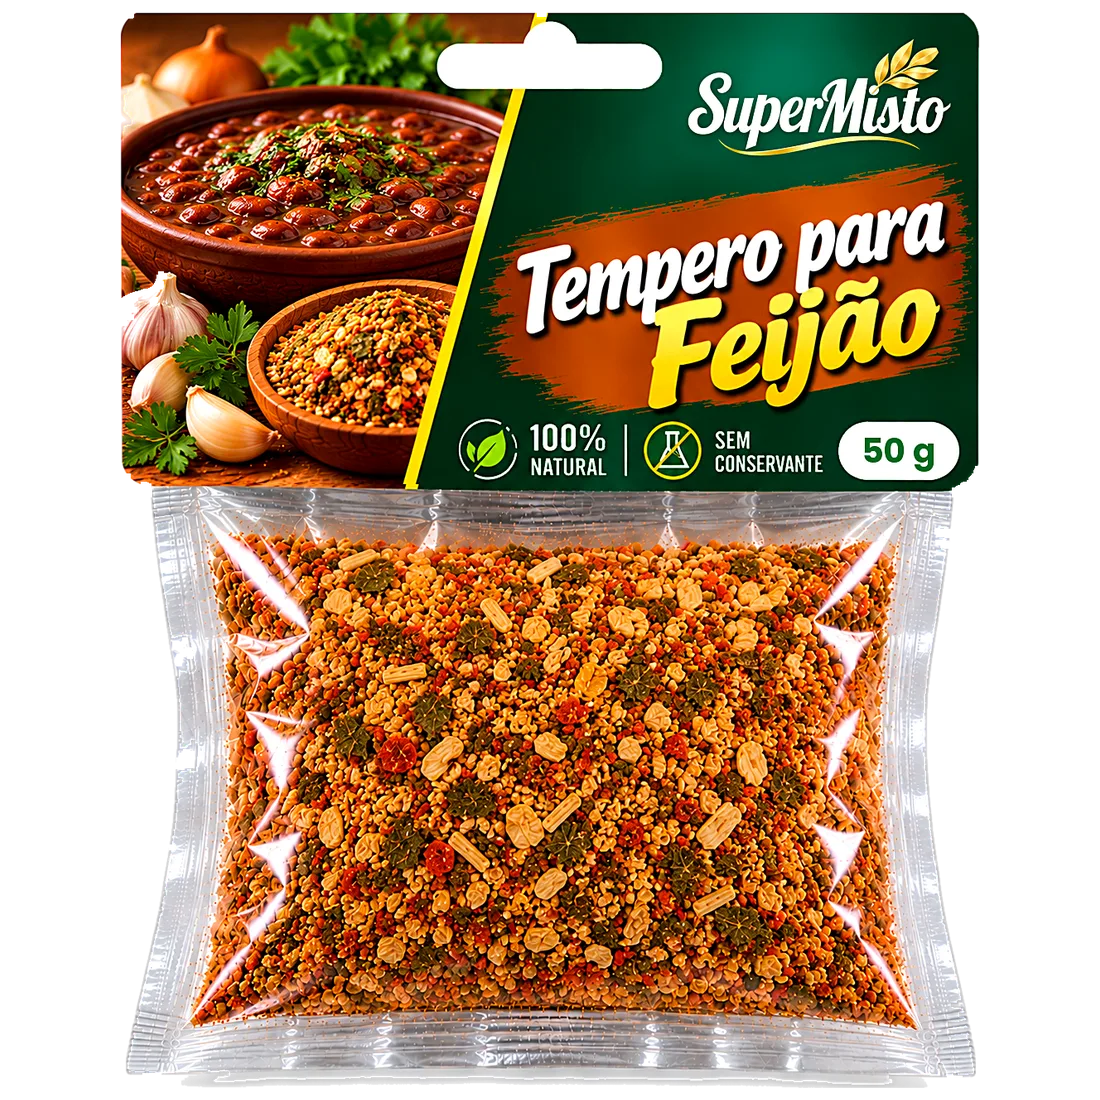
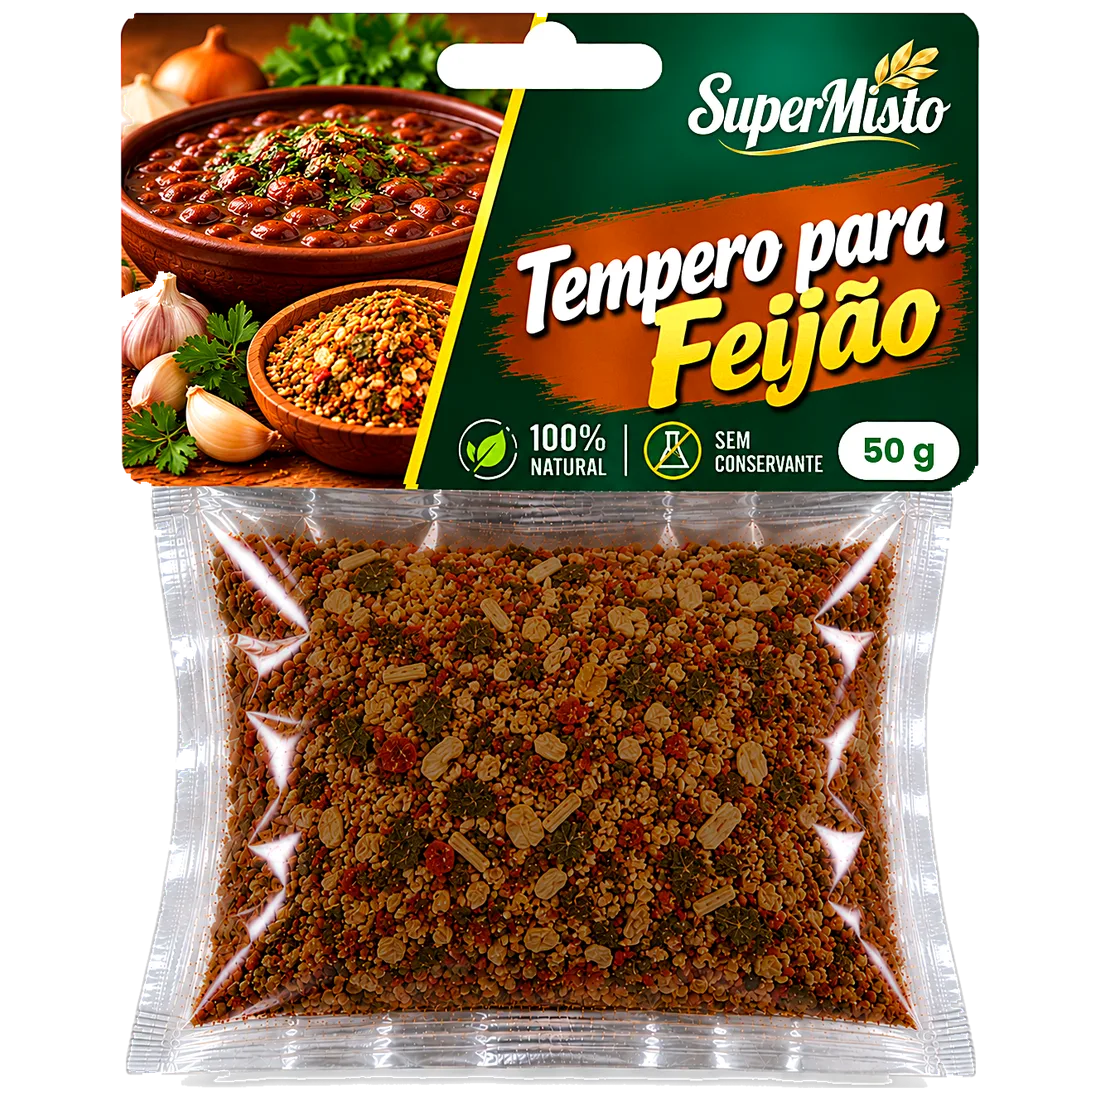
Supermisto: cor própria do tempero em cada saquinho (frango, feijão, arroz)
Claude-Session: https://claude.ai/code/session_01UfbvQyVUMZpEq6zNbbPKYT

Changed region(s): [[0.1545, 0.4636, 0.8345, 0.9582]]

diff --git a/SITE-SUPERMISTO/site.js b/SITE-SUPERMISTO/site.js
@@ -31,7 +31,7 @@ const slug = (n) => n.toLowerCase().normalize('NFD').replace(/[\u0300-\u036f]/g,
 const PESO_FOTO = { '50 g': '-50g', '100 g': '-100g', '1 kg': '-1kg' };
 function midia(p, peso) {
   const s = slug(p.nome);
-  return FOTOS.has(s) ? `<img class="foto-prod" src="img/produtos/${s}${PESO_FOTO[peso] || ''}.webp?v=36" alt="${escapar(p.nome)} Supermisto ${peso || ''}" loading="lazy">` : embalagem(p, peso);
+  return FOTOS.has(s) ? `<img class="foto-prod" src="img/produtos/${s}${PESO_FOTO[peso] || ''}.webp?v=37" alt="${escapar(p.nome)} Supermisto ${peso || ''}" loading="lazy">` : embalagem(p, peso);
 }
 
 const $ = (s, el = document) => el.querySelector(s);
@@ -43,7 +43,7 @@ const WHATS_SVG = '<svg viewBox="0 0 32 32" width="30" height="30" fill="#fff" a
 /* ---------- cartões de produto ---------- */
 function cartao(p) {
   if (!FOTOS.has(slug(p.nome))) return `<article class="prod prod-embreve aparece" aria-label="${escapar(p.nome)}: em breve">
-    <div class="prod-img"><img class="breve-logo" src="img/logo-supermisto.png?v=36" alt="" loading="lazy"><span class="breve-selo">Em breve</span></div>
+    <div class="prod-img"><img class="breve-logo" src="img/logo-supermisto.png?v=37" alt="" loading="lazy"><span class="breve-selo">Em breve</span></div>
     <div class="prod-corpo">
       <small class="prod-linha">${linhaDe(p.linha).nome}</small>
       <h3>${escapar(p.nome)}</h3>
@@ -132,11 +132,11 @@ function inicio() {
   const pegar = (nome) => PRODUTOS.find((p) => p.nome === nome);
   // produtos com foto real entram como recorte (sem fundo); os outros com a embalagem desenhada
   const vit = (n) => FOTOS.has(slug(n)) ? `<img src="img/produtos/${slug(n)}-recorte.png" alt="${n} Supermisto">` : embalagem(pegar(n), pegar(n).tam[1] || pegar(n).tam[0]);
-  $('#vitrine').innerHTML = '<img class="vit-kit" src="img/kit-10-temperos.webp?v=36" alt="Kit 10 temperos Supermisto" width="900" height="900">';
+  $('#vitrine').innerHTML = '<img class="vit-kit" src="img/kit-10-temperos.webp?v=37" alt="Kit 10 temperos Supermisto" width="900" height="900">';
   $('#num-prod').textContent = PRODUTOS.length + '+';
   $('#linhas-grid').innerHTML = LINHAS.map((l) => {
     const qtd = PRODUTOS.filter((p) => p.linha === l.id).length;
-    const fundo = FOTOS_LINHA.includes(l.id) ? `background-image:url(img/linhas/${l.id}.webp?v=36)` : `background:radial-gradient(circle at 50% 40%,#7B1F95,#2C0739)`;
+    const fundo = FOTOS_LINHA.includes(l.id) ? `background-image:url(img/linhas/${l.id}.webp?v=37)` : `background:radial-gradient(circle at 50% 40%,#7B1F95,#2C0739)`;
     return `<a class="linha aparece" href="linha.html?id=${l.id}"><span class="linha-foto" style="${fundo}">${FOTOS_LINHA.includes(l.id) ? '' : `<i>${l.emoji}</i>`}</span><b>${l.nome}</b><em>${qtd} produtos</em></a>`;
   }).join('');
   // só produtos com foto real (os outros entram quando a foto chegar)
@@ -184,8 +184,8 @@ function paginaLinha() {
   const titulo = `<span class="sobre-tit amarelo">Nossas linhas</span><h1>${l.nome}</h1><p>${l.desc}</p>
     <span class="ln-conta">${lista.length} produtos${prontos < lista.length ? ` · ${lista.length - prontos} em breve` : ''}</span>`;
   $('#linha').innerHTML = CAPAS_LINHA.includes(l.id)
-    ? `<div class="ln-capa-larga"><img src="img/linhas/${l.id}-capa.webp?v=36" alt="${l.nome} Supermisto" width="1920" height="720"></div><div class="ln-topo ln-topo-so"><div class="caixa">${titulo}</div></div>`
-    : `<div class="ln-topo"><div class="caixa ln-topo-in"><div>${titulo}</div>${FOTOS_LINHA.includes(l.id) ? `<img class="ln-foto" src="img/linhas/${l.id}.webp?v=36" alt="${l.nome} Supermisto" width="800" height="600">` : `<div class="ln-foto ln-foto-vazia"><i>${l.emoji}</i></div>`}</div></div>`;
+    ? `<div class="ln-capa-larga"><img src="img/linhas/${l.id}-capa.webp?v=37" alt="${l.nome} Supermisto" width="1920" height="720"></div><div class="ln-topo ln-topo-so"><div class="caixa">${titulo}</div></div>`
+    : `<div class="ln-topo"><div class="caixa ln-topo-in"><div>${titulo}</div>${FOTOS_LINHA.includes(l.id) ? `<img class="ln-foto" src="img/linhas/${l.id}.webp?v=37" alt="${l.nome} Supermisto" width="800" height="600">` : `<div class="ln-foto ln-foto-vazia"><i>${l.emoji}</i></div>`}</div></div>`;
   $('#linhas-nav').innerHTML = LINHAS.map((x) => `<a href="linha.html?id=${x.id}"${x.id === l.id ? ' class="ativo" aria-current="page"' : ''}>${x.nome}</a>`).join('');
   $('#linha-prods').innerHTML = lista.map(([p, i]) => cartao(p, i)).join('');
 }

diff --git a/SITE-SUPERMISTO/404.html b/SITE-SUPERMISTO/404.html
@@ -12,14 +12,14 @@
 <link rel="icon" href="img/icone-192.png">
 <link rel="preconnect" href="https://fonts.googleapis.com">
 <link href="https://fonts.googleapis.com/css2?family=Inter:wght@400;500;600;700&family=Poppins:ital,wght@0,600;0,700;0,800;1,800&display=swap" rel="stylesheet">
-<link rel="stylesheet" href="estilo.css?v=36">
+<link rel="stylesheet" href="estilo.css?v=37">
 <script type="application/ld+json">{"@context":"https://schema.org","@type":"Organization","name":"Supermisto Temperos","legalName":"SUPER MISTO TEMPEROS LTDA","taxID":"13.580.397/0001-80","url":"https://www.supermistotemperos.com.br/","logo":"https://www.supermistotemperos.com.br/img/logo-supermisto.png","email":"contato@supermistotemperos.com.br","telephone":"+55-24-99872-1557","address":{"@type":"PostalAddress","streetAddress":"Estrada de Xerém, 484","addressLocality":"Duque de Caxias","addressRegion":"RJ","postalCode":"25241-390","addressCountry":"BR"}}</script>
 </head>
 <body>
 
 <header class="topo" id="topo">
   <div class="caixa topo-in">
-    <a href="index.html" class="marca" aria-label="Supermisto Temperos, início"><img src="img/logo-supermisto.png?v=36" alt="Supermisto Temperos" width="1029" height="507"></a>
+    <a href="index.html" class="marca" aria-label="Supermisto Temperos, início"><img src="img/logo-supermisto.png?v=37" alt="Supermisto Temperos" width="1029" height="507"></a>
     <nav class="menu" id="menu">
       <a href="catalogo.html">Produtos</a>
       <a href="receitas.html">Receitas</a>
@@ -34,7 +34,7 @@
 
 <main>
 <a class="banner-topo" href="catalogo.html" aria-label="Ver os temperos Supermisto">
-  <img src="img/banner-larga.webp?v=36" srcset="img/banner-larga-960.webp?v=36 960w, img/banner-larga-1280.webp?v=36 1280w, img/banner-larga.webp?v=36 1920w" sizes="100vw" width="1920" height="720" alt="Supermisto: sabor e qualidade em cada receita. Molhos de pimenta, shoyu e alho, temperos e doces Supermisto." fetchpriority="high">
+  <img src="img/banner-larga.webp?v=37" srcset="img/banner-larga-960.webp?v=37 960w, img/banner-larga-1280.webp?v=37 1280w, img/banner-larga.webp?v=37 1920w" sizes="100vw" width="1920" height="720" alt="Supermisto: sabor e qualidade em cada receita. Molhos de pimenta, shoyu e alho, temperos e doces Supermisto." fetchpriority="high">
 </a>
 <section class="hero" id="inicio">
   
@@ -158,8 +158,8 @@
 <footer class="rodape" id="rodape"></footer>
 <a class="whats-flutua" data-whats="Olá! Vim pelo site da Supermisto." aria-label="WhatsApp"></a>
 
-<script src="produtos.js?v=36"></script>
-<script src="receitas.js?v=36"></script>
-<script src="site.js?v=36"></script>
+<script src="produtos.js?v=37"></script>
+<script src="receitas.js?v=37"></script>
+<script src="site.js?v=37"></script>
 </body>
 </html>

diff --git a/SITE-SUPERMISTO/index.html b/SITE-SUPERMISTO/index.html
@@ -12,14 +12,14 @@
 <link rel="icon" href="img/icone-192.png">
 <link rel="preconnect" href="https://fonts.googleapis.com">
 <link href="https://fonts.googleapis.com/css2?family=Inter:wght@400;500;600;700&family=Poppins:ital,wght@0,600;0,700;0,800;1,800&display=swap" rel="stylesheet">
-<link rel="stylesheet" href="estilo.css?v=36">
+<link rel="stylesheet" href="estilo.css?v=37">
 <script type="application/ld+json">{"@context":"https://schema.org","@type":"Organization","name":"Supermisto Temperos","legalName":"SUPER MISTO TEMPEROS LTDA","taxID":"13.580.397/0001-80","url":"https://www.supermistotemperos.com.br/","logo":"https://www.supermistotemperos.com.br/img/logo-supermisto.png","email":"contato@supermistotemperos.com.br","telephone":"+55-24-99872-1557","address":{"@type":"PostalAddress","streetAddress":"Estrada de Xerém, 484","addressLocality":"Duque de Caxias","addressRegion":"RJ","postalCode":"25241-390","addressCountry":"BR"}}</script>
 </head>
 <body>
 
 <header class="topo" id="topo">
   <div class="caixa topo-in">
-    <a href="index.html" class="marca" aria-label="Supermisto Temperos, início"><img src="img/logo-supermisto.png?v=36" alt="Supermisto Temperos" width="1029" height="507"></a>
+    <a href="index.html" class="marca" aria-label="Supermisto Temperos, início"><img src="img/logo-supermisto.png?v=37" alt="Supermisto Temperos" width="1029" height="507"></a>
     <nav class="menu" id="menu">
       <a href="catalogo.html">Produtos</a>
       <a href="receitas.html">Receitas</a>
@@ -34,7 +34,7 @@
 
 <main>
 <a class="banner-topo" href="catalogo.html" aria-label="Ver os temperos Supermisto">
-  <img src="img/banner-larga.webp?v=36" srcset="img/banner-larga-960.webp?v=36 960w, img/banner-larga-1280.webp?v=36 1280w, img/banner-larga.webp?v=36 1920w" sizes="100vw" width="1920" height="720" alt="Supermisto: sabor e qualidade em cada receita. Molhos de pimenta, shoyu e alho, temperos e doces Supermisto." fetchpriority="high">
+  <img src="img/banner-larga.webp?v=37" srcset="img/banner-larga-960.webp?v=37 960w, img/banner-larga-1280.webp?v=37 1280w, img/banner-larga.webp?v=37 1920w" sizes="100vw" width="1920" height="720" alt="Supermisto: sabor e qualidade em cada receita. Molhos de pimenta, shoyu e alho, temperos e doces Supermisto." fetchpriority="high">
 </a>
 <section class="hero" id="inicio">
   
@@ -158,8 +158,8 @@
 <footer class="rodape" id="rodape"></footer>
 <a class="whats-flutua" data-whats="Olá! Vim pelo site da Supermisto." aria-label="WhatsApp"></a>
 
-<script src="produtos.js?v=36"></script>
-<script src="receitas.js?v=36"></script>
-<script src="site.js?v=36"></script>
+<script src="produtos.js?v=37"></script>
+<script src="receitas.js?v=37"></script>
+<script src="site.js?v=37"></script>
 </body>
 </html>

diff --git a/SITE-SUPERMISTO/catalogo.html b/SITE-SUPERMISTO/catalogo.html
@@ -9,12 +9,12 @@
 <link rel="icon" href="img/icone-192.png">
 <link rel="preconnect" href="https://fonts.googleapis.com">
 <link href="https://fonts.googleapis.com/css2?family=Inter:wght@400;500;600;700&family=Poppins:ital,wght@0,600;0,700;0,800;1,800&display=swap" rel="stylesheet">
-<link rel="stylesheet" href="estilo.css?v=36">
+<link rel="stylesheet" href="estilo.css?v=37">
 </head>
 <body>
 <header class="topo" id="topo">
   <div class="caixa topo-in">
-    <a href="index.html" class="marca" aria-label="Supermisto Temperos, início"><img src="img/logo-supermisto.png?v=36" alt="Supermisto Temperos" width="1029" height="507"></a>
+    <a href="index.html" class="marca" aria-label="Supermisto Temperos, início"><img src="img/logo-supermisto.png?v=37" alt="Supermisto Temperos" width="1029" height="507"></a>
     <nav class="menu" id="menu">
       <a href="index.html">Início</a>
       <a href="catalogo.html" class="atual">Produtos</a>
@@ -52,8 +52,8 @@
 <footer class="rodape" id="rodape"></footer>
 <a class="whats-flutua" data-whats="Olá! Vim pelo catálogo da Supermisto." aria-label="WhatsApp"></a>
 
-<script src="produtos.js?v=36"></script>
-<script src="receitas.js?v=36"></script>
-<script src="site.js?v=36"></script>
+<script src="produtos.js?v=37"></script>
+<script src="receitas.js?v=37"></script>
+<script src="site.js?v=37"></script>
 </body>
 </html>

diff --git a/SITE-SUPERMISTO/linha.html b/SITE-SUPERMISTO/linha.html
@@ -9,12 +9,12 @@
 <link rel="icon" href="img/icone-192.png">
 <link rel="preconnect" href="https://fonts.googleapis.com">
 <link href="https://fonts.googleapis.com/css2?family=Inter:wght@400;500;600;700&family=Poppins:ital,wght@0,600;0,700;0,800;1,800&display=swap" rel="stylesheet">
-<link rel="stylesheet" href="estilo.css?v=36">
+<link rel="stylesheet" href="estilo.css?v=37">
 </head>
 <body>
 <header class="topo" id="topo">
   <div class="caixa topo-in">
-    <a href="index.html" class="marca" aria-label="Supermisto Temperos, início"><img src="img/logo-supermisto.png?v=36" alt="Supermisto Temperos" width="1029" height="507"></a>
+    <a href="index.html" class="marca" aria-label="Supermisto Temperos, início"><img src="img/logo-supermisto.png?v=37" alt="Supermisto Temperos" width="1029" height="507"></a>
     <nav class="menu" id="menu">
       <a href="index.html">Início</a>
       <a href="catalogo.html" class="atual">Produtos</a>
@@ -45,8 +45,8 @@
 <footer class="rodape" id="rodape"></footer>
 <a class="whats-flutua" data-whats="Olá! Vim pelo site da Supermisto." aria-label="WhatsApp"></a>
 
-<script src="produtos.js?v=36"></script>
-<script src="receitas.js?v=36"></script>
-<script src="site.js?v=36"></script>
+<script src="produtos.js?v=37"></script>
+<script src="receitas.js?v=37"></script>
+<script src="site.js?v=37"></script>
 </body>
 </html>

diff --git a/SITE-SUPERMISTO/produto.html b/SITE-SUPERMISTO/produto.html
@@ -9,12 +9,12 @@
 <link rel="icon" href="img/icone-192.png">
 <link rel="preconnect" href="https://fonts.googleapis.com">
 <link href="https://fonts.googleapis.com/css2?family=Inter:wght@400;500;600;700&family=Poppins:ital,wght@0,600;0,700;0,800;1,800&display=swap" rel="stylesheet">
-<link rel="stylesheet" href="estilo.css?v=36">
+<link rel="stylesheet" href="estilo.css?v=37">
 </head>
 <body>
 <header class="topo" id="topo">
   <div class="caixa topo-in">
-    <a href="index.html" class="marca" aria-label="Supermisto Temperos, início"><img src="img/logo-supermisto.png?v=36" alt="Supermisto Temperos" width="1029" height="507"></a>
+    <a href="index.html" class="marca" aria-label="Supermisto Temperos, início"><img src="img/logo-supermisto.png?v=37" alt="Supermisto Temperos" width="1029" height="507"></a>
     <nav class="menu" id="menu">
       <a href="index.html">Início</a>
       <a href="catalogo.html" class="atual">Produtos</a>
@@ -35,8 +35,8 @@
 <footer class="rodape" id="rodape"></footer>
 <a class="whats-flutua" data-whats="Olá! Vim pelo site da Supermisto." aria-label="WhatsApp"></a>
 
-<script src="produtos.js?v=36"></script>
-<script src="receitas.js?v=36"></script>
-<script src="site.js?v=36"></script>
+<script src="produtos.js?v=37"></script>
+<script src="receitas.js?v=37"></script>
+<script src="site.js?v=37"></script>
 </body>
 </html>

diff --git a/SITE-SUPERMISTO/privacidade.html b/SITE-SUPERMISTO/privacidade.html
@@ -12,12 +12,12 @@
 <link rel="icon" href="img/icone-192.png">
 <link rel="preconnect" href="https://fonts.googleapis.com">
 <link href="https://fonts.googleapis.com/css2?family=Inter:wght@400;500;600;700&family=Poppins:ital,wght@0,600;0,700;0,800;1,800&display=swap" rel="stylesheet">
-<link rel="stylesheet" href="estilo.css?v=36">
+<link rel="stylesheet" href="estilo.css?v=37">
 </head>
 <body>
 <header class="topo" id="topo">
   <div class="caixa topo-in">
-    <a href="index.html" class="marca" aria-label="Supermisto Temperos, início"><img src="img/logo-supermisto.png?v=36" alt="Supermisto Temperos" width="1029" height="507"></a>
+    <a href="index.html" class="marca" aria-label="Supermisto Temperos, início"><img src="img/logo-supermisto.png?v=37" alt="Supermisto Temperos" width="1029" height="507"></a>
     <nav class="menu" id="menu">
       <a href="catalogo.html">Produtos</a>
       <a href="receitas.html">Receitas</a>
@@ -43,8 +43,8 @@
 <footer class="rodape" id="rodape"></footer>
 <a class="whats-flutua" data-whats="Olá! Vim pelo site da Supermisto." aria-label="WhatsApp"></a>
 
-<script src="produtos.js?v=36"></script>
-<script src="receitas.js?v=36"></script>
-<script src="site.js?v=36"></script>
+<script src="produtos.js?v=37"></script>
+<script src="receitas.js?v=37"></script>
+<script src="site.js?v=37"></script>
 </body>
 </html>

diff --git a/SITE-SUPERMISTO/receita.html b/SITE-SUPERMISTO/receita.html
@@ -12,12 +12,12 @@
 <link rel="icon" href="img/icone-192.png">
 <link rel="preconnect" href="https://fonts.googleapis.com">
 <link href="https://fonts.googleapis.com/css2?family=Inter:wght@400;500;600;700&family=Poppins:ital,wght@0,600;0,700;0,800;1,800&display=swap" rel="stylesheet">
-<link rel="stylesheet" href="estilo.css?v=36">
+<link rel="stylesheet" href="estilo.css?v=37">
 </head>
 <body>
 <header class="topo" id="topo">
   <div class="caixa topo-in">
-    <a href="index.html" class="marca" aria-label="Supermisto Temperos, início"><img src="img/logo-supermisto.png?v=36" alt="Supermisto Temperos" width="1029" height="507"></a>
+    <a href="index.html" class="marca" aria-label="Supermisto Temperos, início"><img src="img/logo-supermisto.png?v=37" alt="Supermisto Temperos" width="1029" height="507"></a>
     <nav class="menu" id="menu">
       <a href="catalogo.html">Produtos</a>
       <a href="receitas.html">Receitas</a>
@@ -37,8 +37,8 @@
 <footer class="rodape" id="rodape"></footer>
 <a class="whats-flutua" data-whats="Olá! Vim pelo site da Supermisto." aria-label="WhatsApp"></a>
 
-<script src="produtos.js?v=36"></script>
-<script src="receitas.js?v=36"></script>
-<script src="site.js?v=36"></script>
+<script src="produtos.js?v=37"></script>
+<script src="receitas.js?v=37"></script>
+<script src="site.js?v=37"></script>
 </body>
 </html>

diff --git a/SITE-SUPERMISTO/receitas.html b/SITE-SUPERMISTO/receitas.html
@@ -12,12 +12,12 @@
 <link rel="icon" href="img/icone-192.png">
 <link rel="preconnect" href="https://fonts.googleapis.com">
 <link href="https://fonts.googleapis.com/css2?family=Inter:wght@400;500;600;700&family=Poppins:ital,wght@0,600;0,700;0,800;1,800&display=swap" rel="stylesheet">
-<link rel="stylesheet" href="estilo.css?v=36">
+<link rel="stylesheet" href="estilo.css?v=37">
 </head>
 <body>
 <header class="topo" id="topo">
   <div class="caixa topo-in">
-    <a href="index.html" class="marca" aria-label="Supermisto Temperos, início"><img src="img/logo-supermisto.png?v=36" alt="Supermisto Temperos" width="1029" height="507"></a>
+    <a href="index.html" class="marca" aria-label="Supermisto Temperos, início"><img src="img/logo-supermisto.png?v=37" alt="Supermisto Temperos" width="1029" height="507"></a>
     <nav class="menu" id="menu">
       <a href="catalogo.html">Produtos</a>
       <a href="receitas.html">Receitas</a>
@@ -37,8 +37,8 @@
 <footer class="rodape" id="rodape"></footer>
 <a class="whats-flutua" data-whats="Olá! Vim pelo site da Supermisto." aria-label="WhatsApp"></a>
 
-<script src="produtos.js?v=36"></script>
-<script src="receitas.js?v=36"></script>
-<script src="site.js?v=36"></script>
+<script src="produtos.js?v=37"></script>
+<script src="receitas.js?v=37"></script>
+<script src="site.js?v=37"></script>
 </body>
 </html>

diff --git a/SITE-SUPERMISTO/revenda.html b/SITE-SUPERMISTO/revenda.html
@@ -9,12 +9,12 @@
 <link rel="icon" href="img/icone-192.png">
 <link rel="preconnect" href="https://fonts.googleapis.com">
 <link href="https://fonts.googleapis.com/css2?family=Inter:wght@400;500;600;700&family=Poppins:ital,wght@0,600;0,700;0,800;1,800&display=swap" rel="stylesheet">
-<link rel="stylesheet" href="estilo.css?v=36">
+<link rel="stylesheet" href="estilo.css?v=37">
 </head>
 <body>
 <header class="topo" id="topo">
   <div class="caixa topo-in">
-    <a href="index.html" class="marca" aria-label="Supermisto Temperos, início"><img src="img/logo-supermisto.png?v=36" alt="Supermisto Temperos" width="1029" height="507"></a>
+    <a href="index.html" class="marca" aria-label="Supermisto Temperos, início"><img src="img/logo-supermisto.png?v=37" alt="Supermisto Temperos" width="1029" height="507"></a>
     <nav class="menu" id="menu">
       <a href="index.html">Início</a>
       <a href="catalogo.html">Produtos</a>
@@ -96,8 +96,8 @@
 <footer class="rodape" id="rodape"></footer>
 <a class="whats-flutua" data-whats="Olá! Vim pelo site da Supermisto." aria-label="WhatsApp"></a>
 
-<script src="produtos.js?v=36"></script>
-<script src="receitas.js?v=36"></script>
-<script src="site.js?v=36"></script>
+<script src="produtos.js?v=37"></script>
+<script src="receitas.js?v=37"></script>
+<script src="site.js?v=37"></script>
 </body>
 </html>
